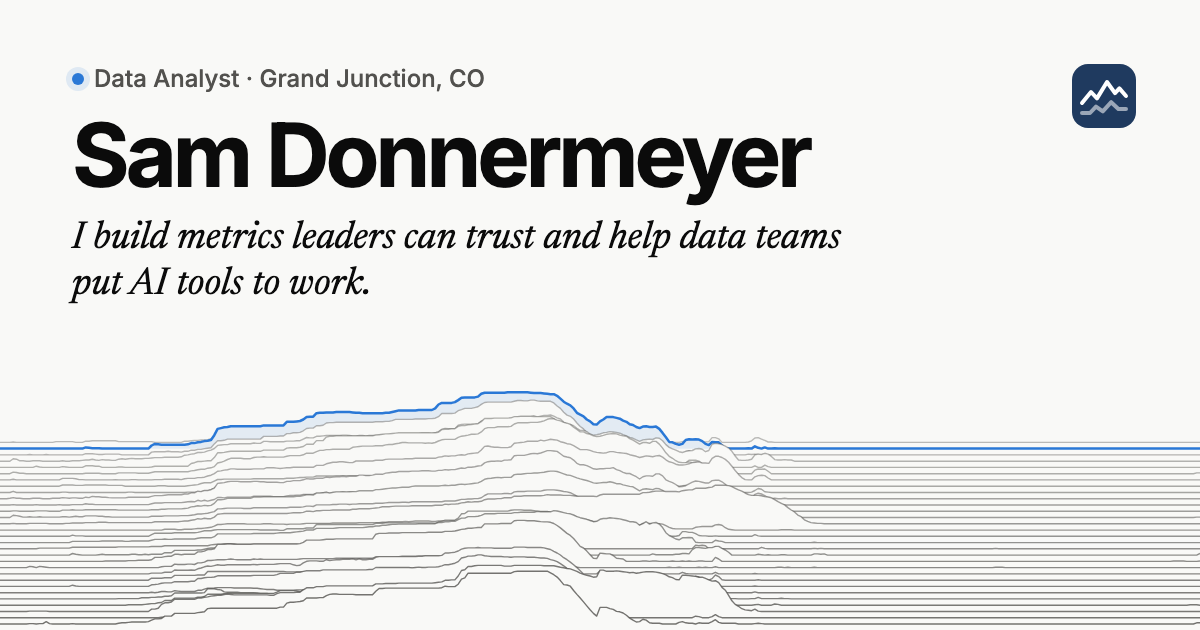
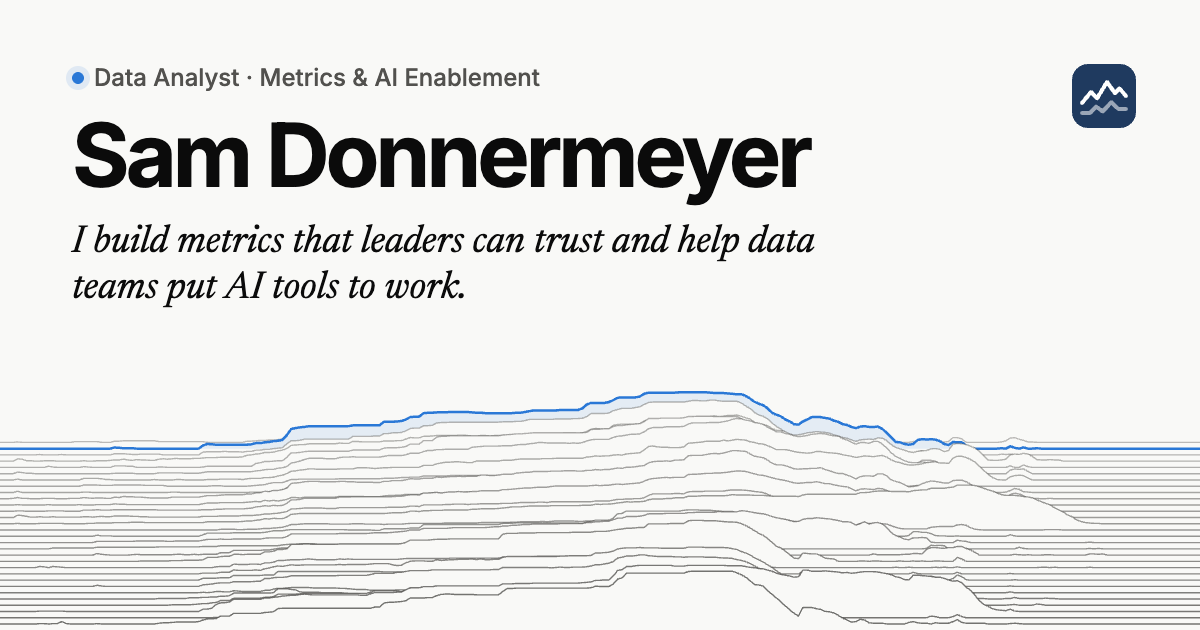
Lead with the agent card; tighten the opening line and section intro
- Opening statement now reads "I build metrics that leaders can trust",
  in the page, the meta description and the link preview image.
- Work intro now reads "Two systems I have built."
- Agent operating layer is the first project card, ahead of Hunt Command.
- Link preview image regenerated with the current label and wording.

diff --git a/index.html b/index.html
@@ -4,14 +4,14 @@
   <meta charset="utf-8">
   <meta name="viewport" content="width=device-width, initial-scale=1">
   <title>Sam Donnermeyer · Data Analyst · Metrics &amp; AI Enablement</title>
-  <meta name="description" content="Sam Donnermeyer is a data analyst in Grand Junction, Colorado. He builds metrics leaders can trust with SQL, Snowflake and Power BI, and helps data teams put AI tools to work.">
+  <meta name="description" content="Sam Donnermeyer is a data analyst in Grand Junction, Colorado. He builds metrics that leaders can trust with SQL, Snowflake and Power BI, and helps data teams put AI tools to work.">
   <meta name="theme-color" content="#f9f9f7" media="(prefers-color-scheme: light)">
   <meta name="theme-color" content="#0d0d0d" media="(prefers-color-scheme: dark)">
   <link rel="canonical" href="https://samdonnermeyer.github.io/resume/">
 
   <meta property="og:type" content="profile">
   <meta property="og:title" content="Sam Donnermeyer · Data Analyst · Metrics &amp; AI Enablement">
-  <meta property="og:description" content="I build metrics leaders can trust and help data teams put AI tools to work.">
+  <meta property="og:description" content="I build metrics that leaders can trust and help data teams put AI tools to work.">
   <meta property="og:url" content="https://samdonnermeyer.github.io/resume/">
   <meta property="og:image" content="https://samdonnermeyer.github.io/resume/assets/img/og.png">
   <meta property="og:image:width" content="1200">
@@ -84,7 +84,7 @@
         <div class="hero-head">
           <p class="eyebrow"><span class="dot" aria-hidden="true"></span>Data Analyst <span aria-hidden="true">·</span> Metrics &amp; AI Enablement</p>
           <h1 id="hero-name">Sam Donnermeyer</h1>
-          <p class="headline">I build metrics leaders can trust and help data teams put AI tools to work.</p>
+          <p class="headline">I build metrics that leaders can trust and help data teams put AI tools to work.</p>
         </div>
 
         <figure class="hero-fig">
@@ -131,45 +131,10 @@
       <div class="section-head reveal">
         <p class="kicker">Selected work</p>
         <h2 id="work-title">Things I've built</h2>
-        <p>Two systems I built and run every day. Both live in private repos because they hold personal data, so they are described here instead of linked.</p>
+        <p>Two systems I have built. Both live in private repos because they hold personal data, so they are described here instead of linked.</p>
       </div>
 
       <div class="cards">
-        <article class="card card-feature reveal">
-          <div class="feature-text">
-            <p class="card-kicker">Personal project · Automation</p>
-            <h3>Hunt Command</h3>
-            <p class="card-lede">A daily intelligence page for Colorado big-game seasons.</p>
-            <p>Before a hunt, the useful information is spread across a dozen sites. A scheduled Python job pulls weather forecasts, snowpack, wildfire activity, closures and local news for each hunt unit, then renders one self-contained HTML page and deploys it to an access-controlled site. It runs unattended every morning.</p>
-            <ul class="chips" aria-label="Tools">
-              <li>Python</li><li>Scheduled jobs</li><li>Static HTML</li><li>Git-based deploys</li><li>Cloudflare Pages</li>
-            </ul>
-          </div>
-
-          <div class="feature-viz">
-            <div class="viz-head">
-              <p class="viz-title">Colorado's snowpack peaked 29 days early, at 55% of normal</p>
-              <p class="viz-sub">One of the public feeds Hunt Command reads: snow water equivalent, winter 2025–26.</p>
-            </div>
-            <div class="legend" aria-hidden="true">
-              <span><i style="background: var(--s1)"></i>This winter</span>
-              <span><i style="background: var(--de)"></i>Normal (median)</span>
-            </div>
-            <div id="statewide" class="mini-chart" tabindex="0" role="img"
-                 aria-label="Line chart of average Colorado snowpack this winter against normal. This winter peaked at 8.4 inches on March 8; the normal peak is 15.3 inches on April 6. By April 1 the average was 26 percent of normal. Use the left and right arrow keys to read values; a data table follows."></div>
-            <p class="viz-note">Simple average of 99 SNOTEL stations against their NRCS medians; provisional data pulled Nov 12, 2026. By April 1 that average was 26% of normal. Official statewide figures weight stations differently and came in slightly lower, about 22–24% (<a href="https://climate.colostate.edu/reports/2026Mar_climate_summary.pdf">Colorado Climate Center</a>).</p>
-            <details class="data-table" id="statewide-table">
-              <summary>View as a table</summary>
-              <div class="table-scroll">
-                <table>
-                  <thead><tr><th scope="col">Date</th><th scope="col" class="num">This winter (in)</th><th scope="col" class="num">Normal (in)</th><th scope="col" class="num">% of normal</th></tr></thead>
-                  <tbody></tbody>
-                </table>
-              </div>
-            </details>
-          </div>
-        </article>
-
         <article class="card card-feature reveal">
           <div class="feature-text">
             <p class="card-kicker">Personal project · AI enablement</p>
@@ -204,6 +169,41 @@
                 <li><b>Change lands</b><small>in the repo</small></li>
               </ol>
             </div>
+          </div>
+        </article>
+
+        <article class="card card-feature reveal">
+          <div class="feature-text">
+            <p class="card-kicker">Personal project · Automation</p>
+            <h3>Hunt Command</h3>
+            <p class="card-lede">A daily intelligence page for Colorado big-game seasons.</p>
+            <p>Before a hunt, the useful information is spread across a dozen sites. A scheduled Python job pulls weather forecasts, snowpack, wildfire activity, closures and local news for each hunt unit, then renders one self-contained HTML page and deploys it to an access-controlled site. It runs unattended every morning.</p>
+            <ul class="chips" aria-label="Tools">
+              <li>Python</li><li>Scheduled jobs</li><li>Static HTML</li><li>Git-based deploys</li><li>Cloudflare Pages</li>
+            </ul>
+          </div>
+
+          <div class="feature-viz">
+            <div class="viz-head">
+              <p class="viz-title">Colorado's snowpack peaked 29 days early, at 55% of normal</p>
+              <p class="viz-sub">One of the public feeds Hunt Command reads: snow water equivalent, winter 2025–26.</p>
+            </div>
+            <div class="legend" aria-hidden="true">
+              <span><i style="background: var(--s1)"></i>This winter</span>
+              <span><i style="background: var(--de)"></i>Normal (median)</span>
+            </div>
+            <div id="statewide" class="mini-chart" tabindex="0" role="img"
+                 aria-label="Line chart of average Colorado snowpack this winter against normal. This winter peaked at 8.4 inches on March 8; the normal peak is 15.3 inches on April 6. By April 1 the average was 26 percent of normal. Use the left and right arrow keys to read values; a data table follows."></div>
+            <p class="viz-note">Simple average of 99 SNOTEL stations against their NRCS medians; provisional data pulled Nov 12, 2026. By April 1 that average was 26% of normal. Official statewide figures weight stations differently and came in slightly lower, about 22–24% (<a href="https://climate.colostate.edu/reports/2026Mar_climate_summary.pdf">Colorado Climate Center</a>).</p>
+            <details class="data-table" id="statewide-table">
+              <summary>View as a table</summary>
+              <div class="table-scroll">
+                <table>
+                  <thead><tr><th scope="col">Date</th><th scope="col" class="num">This winter (in)</th><th scope="col" class="num">Normal (in)</th><th scope="col" class="num">% of normal</th></tr></thead>
+                  <tbody></tbody>
+                </table>
+              </div>
+            </details>
           </div>
         </article>
       </div>
